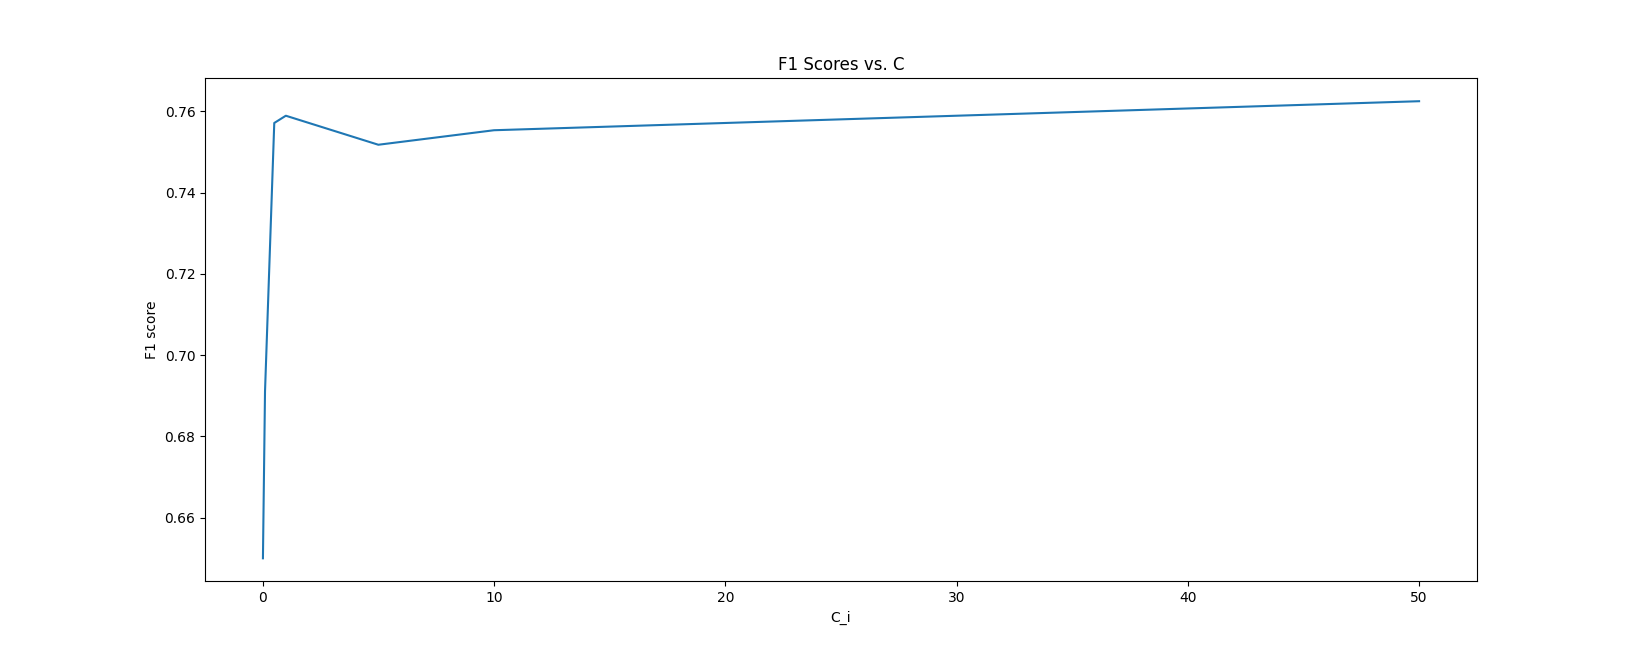
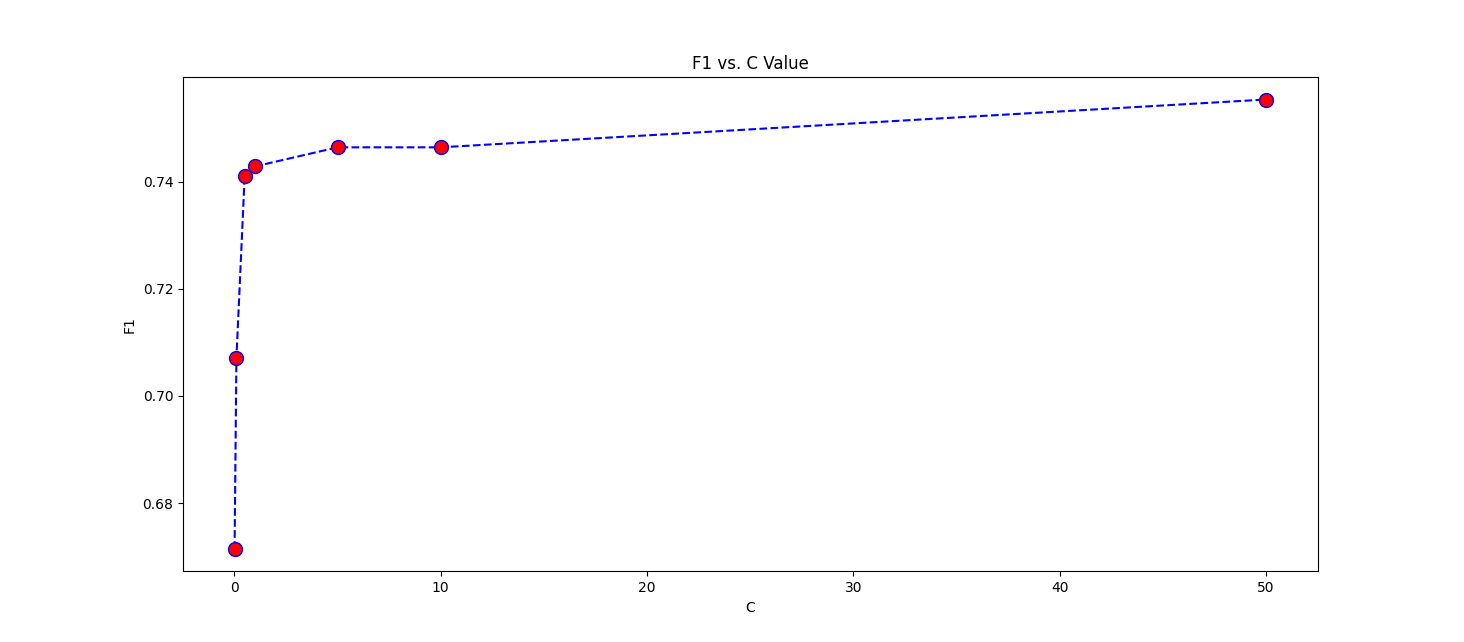
clearer cross val graphs

diff --git a/Project/knn.py b/Project/knn.py
@@ -16,27 +16,41 @@ from sklearn.utils.validation import check_random_state
 def find_k(X,y):
     kf = KFold(n_splits=5)
     f1Scores = []
-    k_range = list(range(1, 31))     #for cross-val
-    # k_range = [9]                        #after choosing best k
+    k_range = list(range(1, 50))     #for cross-val
 
-    # for k in k_range:
-    #     model =  KNeighborsClassifier(n_neighbors = k) #passing in different number of neighbours
-    #     temp = []
-    #     for train, test in kf.split(X):       #different combinations of splitting test/train according to k folds
-    #         model.fit(X[train], y[train])
-    #         ypred = model.predict(X[test])     #predicted y according to model
-    #         temp.append(f1_score(y[test], ypred, average='micro'))
+    for k in k_range:
+        model =  KNeighborsClassifier(n_neighbors = k) #passing in different number of neighbours
+        temp = []
+        for train_idx, test_idx in kf.split(X):       #different combinations of splitting test/train according to k folds
+            x_train, x_test = X.iloc[train_idx], X.iloc[test_idx]
+            y_test = y[test_idx]
+            y_train = y[train_idx]
+            model.fit(x_train, y_train)
+            ypred = model.predict(x_test)     #predicted y according to model
+            temp.append(f1_score(y_test, ypred, average='micro'))
 
-    #     f1Scores.append(np.array(temp).mean())  
+        f1Scores.append(np.array(temp).mean())  
 
-    knn = KNeighborsClassifier()
-    param_grid = dict(n_neighbors=k_range)
-    param_grid["weights"] = ["uniform", "distance"]
-    grid = GridSearchCV(knn, param_grid, cv=10, scoring='accuracy')
-    grid.fit(X, y)
+    plt.figure(figsize=(10,6))
+    plt.plot(k_range,f1Scores,color = 'blue',linestyle='dashed', 
+            marker='o',markerfacecolor='red', markersize=10)
+    plt.title('F1 vs. K Value')
+    plt.xlabel('K')
+    plt.ylabel('F1')
+    plt.show()
+    print("Maximum F1:-",max(k_range),"at K =",k_range.index(max(k_range)))
+    # knn = KNeighborsClassifier()
+    # param_grid = dict(n_neighbors=k_range)
+    # param_grid["weights"] = ["uniform", "distance"]
+    # grid_search_m = GridSearchCV(knn, param_grid, cv=10, scoring='f1_micro', return_train_score=True)
+    # grid_search_m.fit(X, y)
     # Dictionary containing the parameters (k) used to generate that score
-    print(grid.best_params_)
-    print(grid.best_estimator_)
+    # print(grid_search_m.cv_results_.keys())
+    # print(grid_search_m.cv_results_["mean_train_score"].shape)  # n_estimators: 11 values, max_depth: 4 values. Thus shape, 11*4=44
+    # print(grid_search_m.cv_results_["mean_test_score"].shape)
+
+    # print(grid_search_m.cv_results_["mean_train_score"])
+    # print(grid_search_m.cv_results_["mean_test_score"])
     # print("Max Score",max(f1Scores))       # finding highest f1-best precision
     # plt.plot(k_range, f1Scores, linewidth=2)   #score bar
     # plt.xlabel('Number of Neighbours')
@@ -118,8 +132,8 @@ y = data.iloc[:,-1]    # target column i.e genre
 # cross val to find k -number of neighbours
 find_k(X, y)
 
-plot_multiclass_roc(n_classes=["classical", "hiphop", "rock"], figsize=(16, 10))
-cf_matrix()
-compare_train_test()
+# plot_multiclass_roc(n_classes=["classical", "hiphop", "rock"], figsize=(16, 10))
+# cf_matrix()
+# compare_train_test()
 
 

diff --git a/Project/logreg.py b/Project/logreg.py
@@ -27,10 +27,14 @@ def cross_val_C():
             tmp.append(f1_score(y_test, y_pred, average="micro"))
     
         scores.append(np.mean(tmp))
-    plt.plot(C_range, scores)
-    plt.title("F1 Scores vs. C")
-    plt.xlabel("C_i"); plt.ylabel("F1 score")
+    plt.figure(figsize=(10,6))
+    plt.plot(C_range,scores,color = 'blue',linestyle='dashed', 
+            marker='o',markerfacecolor='red', markersize=10)
+    plt.title('F1 vs. C Value')
+    plt.xlabel('C')
+    plt.ylabel('F1')
     plt.show()
+    print("Maximum F1:-",max(C_range),"at C =",C_range.index(max(C_range)))
 
 def cross_val_q():
     kf = KFold(n_splits=5)
@@ -109,14 +113,8 @@ data = pd.read_csv("data/preprocessed.csv")
 X = data.iloc[:,data.columns != "genre"]  # independent feature columns
 y = data.iloc[:,-1]    # target column i.e genre
 
-scaler = StandardScaler()
-scaled_data = scaler.fit_transform(X)
-
-scaled_df = pd.DataFrame(X, columns=X.columns)
-X = scaled_df.iloc[:,data.columns != "genre"]  # independent feature columns
-
-plot_multiclass_roc(n_classes=["classical", "hiphop", "rock"], figsize=(16, 10))
-cf_matrix()
+# plot_multiclass_roc(n_classes=["classical", "hiphop", "rock"], figsize=(16, 10))
+# cf_matrix()
 cross_val_C()
 #cross_val_q()
 
